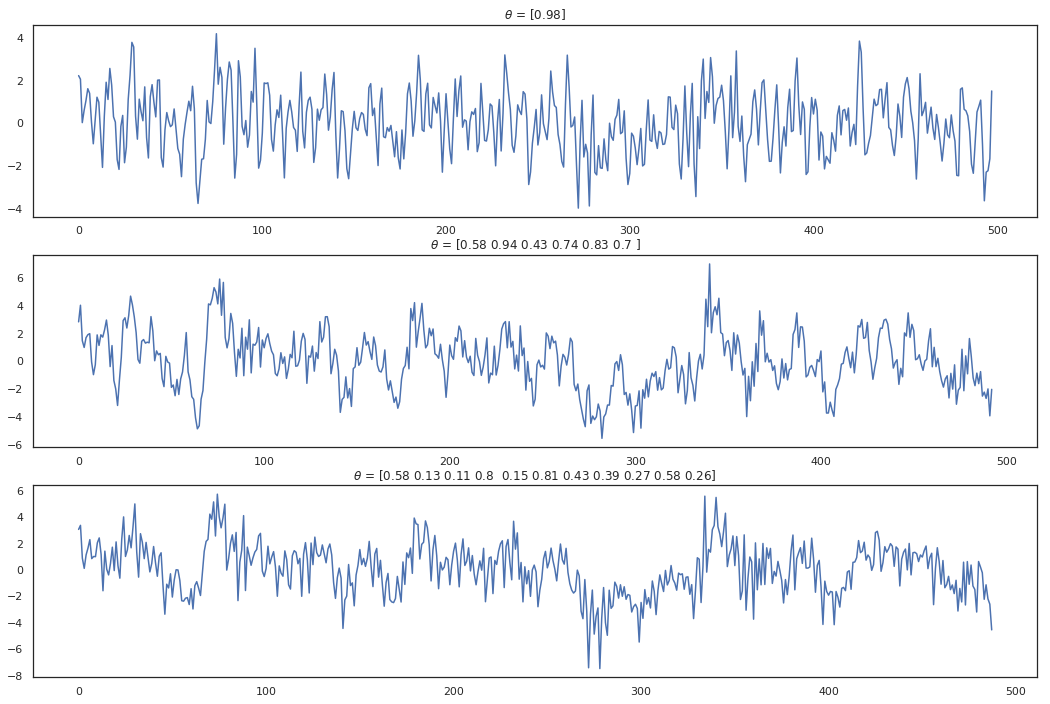
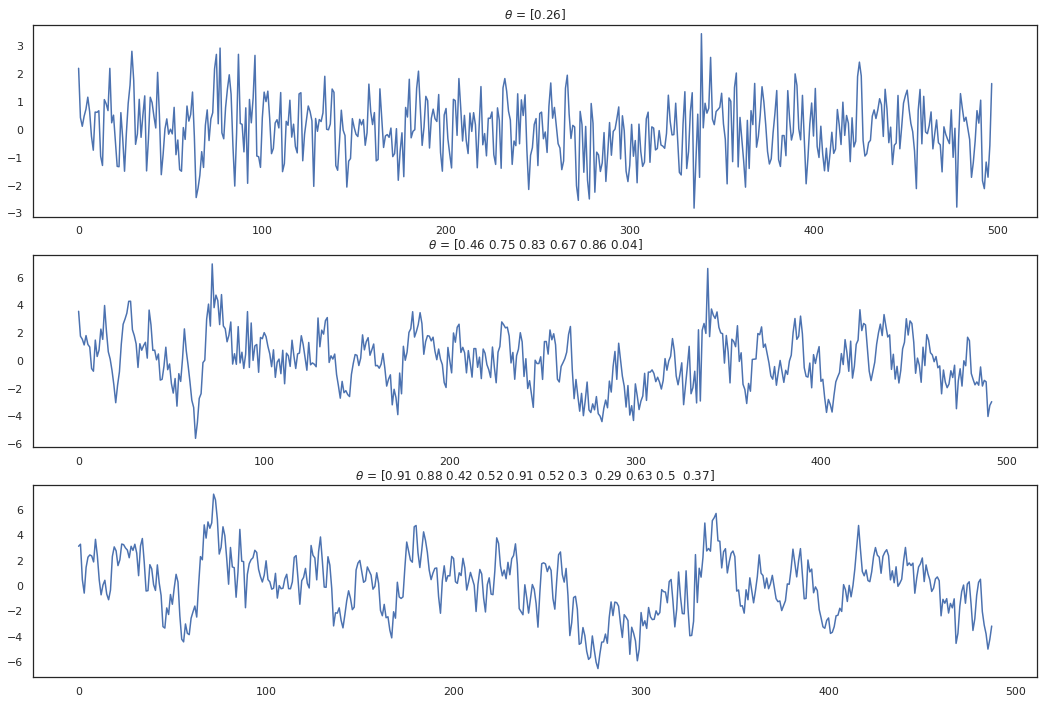
update arima

diff --git a/content/post/arima.md b/content/post/arima.md
@@ -15,7 +15,7 @@ set of variables where we can fit a model on. Are stock markets dependent on pro
 
 A common approach to model time series is to regard the label at current time step $X\_{t}$ as a variable dependent on previous time steps $X\_{t-k}$. We thus analyze the time series on nothing more than the time series. 
 
-One of the most used models when handling time series are ARIMA models. In this post we'll explore how these models are defined and we are going to develop such a model in Python with nothing else but the numpy package.
+One of the most used models when handling time series are ARIMA models. In this post we'll explore how these models are defined and we are going to develop such a model in Python with nothing else but the numpy and the scipy package.
 
 ## Stochastic series
 ARIMA models are actually a combination of two, (or three if you count differencing as a model) processes that are able to generate series data. Those two models are based on an Auto Regressive (AR) process and a Moving Average process. Both AR and MA processes are stochastic processes. Stochastic means that the values come from a random probability distribution, which can be analized statisticly but may not be predicted precisely. In other words, both processes have some
@@ -31,6 +31,7 @@ $$ \epsilon \sim N(0, 1) $$
 import matplotlib.pyplot as plt
 import seaborn as sns
 import numpy as np
+import scipy
 
 n = 500
 fig, ax = plt.subplots(1,2, figsize=(16, 6), gridspec_kw={'width_ratios':[3, 1]})
@@ -88,7 +89,13 @@ Now we are able to easily take a look at different lags back in time, let's simu
 
 ``` python
 def ma_process(eps, theta):
-    theta = np.array([1] + list(theta))[:, None]
+    """
+    Creates an MA(q) process with a zero mean (mean not included in implementation).
+    :param eps: (array) White noise signal.
+    :param theta: (array/ list) Parameters of the process.
+    """
+    # reverse the order of theta as Xt, Xt-1, Xt-k in an array is Xt-k, Xt-1, Xt.
+    theta = np.array([1] + list(theta))[::-1][:, None]
     eps_q, _ = lag_view(eps, len(theta))
     return eps_q @ theta
 
@@ -105,7 +112,7 @@ for i in range(0, 11, 5):
 
 {{< figure src="/img/post-18-arima/ma-signal.png" title="MA processes from different orders." >}}
 
-Note that I've chosen positive values for $\theta$ which isn't required. An MA process can have both positive and negative values for $\theta$. In the plots above can be seen that when the order of $MA(q)$ continues the values are longer correlated with previous values. Actualy, because the process is a weighted average of the $\epsilon$ values until lag $q$, the correlation drops after this lag. Based on this property we can make an educated guess on the which order an $MA(q)$
+Note that I've chosen positive values for $\theta$ which isn't required. An MA process can have both positive and negative values for $\theta$. In the plots above can be seen that when the order of **MA(q)** continues the values are longer correlated with previous values. Actualy, because the process is a weighted average of the $\epsilon$ values until lag $q$, the correlation drops after this lag. Based on this property we can make an educated guess on the which order an **MA(q)**
 process is. This is great, because it is very hard to infer the order by looking at the plots directly. 
 
 ## Autocorrelation
@@ -121,24 +128,24 @@ def pearson_correlation(x, y):
 
 def acf(x, lag=40):
     """
-    Determine auto correlation factors.
+    Determine autocorrelation factors.
     :param x: (array) Time series.
     :param lag: (int) Number of lags.
     """
     return np.array([1] + [pearson_correlation(x[:-i], x[i:]) for i in range(1, lag)])
 
 lag = 40
-# Determine the ACF of an ma(1) and an ma(2) process.
-acf_1 = acf(ma_process(eps, [1]), lag)
-acf_2 = acf(ma_process(eps, [0.2, -0.3, 0.8]), lag)
+# Create an ma(1) and an ma(2) process.
+ma_1 = ma_process(eps, [1])
+ma_2 = ma_process(eps, [0.2, -0.3, 0.8])
 ```
 
-Above we have applied the ACF function on an $MA(1)$ and an $MA(2)$ process with different weights $\theta$. The weights for the models are:
+Above we have created an **MA(1)** and an **MA(2)** process with different weights $\theta$. The weights for the models are:
 
 * MA(1): [1]
 * MA(2): [0.2, -0.3, 0.8]
 
-Below we plot the result of both acf functions. We've also defined a helper function `bartletts_formula` which we use as a null hypothesis to determine if the correlation coefficients we've found are significant and not a statistical fluke. With this function we determine a confidence interval $CI$.
+Below we apply the acf function on both series and then we plot the result of both acf functions. We've also defined a helper function `bartletts_formula` which we use as a null hypothesis to determine if the correlation coefficients we've found are significant and not a statistical fluke. With this function we determine a confidence interval $CI$.
 
 $$CI = \pm z\_{1-\alpha/2} \sqrt{\frac{1+2 \sum\_{1 < i< h-1 }^{h-1}r^2\_i}{N}} $$
 
@@ -149,7 +156,7 @@ def bartletts_formula(acf_array, n):
     """
     Computes the Standard Error of an acf with Bartlet's formula
     Read more at: https://en.wikipedia.org/wiki/Correlogram
-    :param acf_array: (array) Containing auto correlation factors
+    :param acf_array: (array) Containing autocorrelation factors
     :param n: (int) Length of original time series sequence.
     """
     # The first value has autocorrelation with it self. So that values is skipped
@@ -159,29 +166,134 @@ def bartletts_formula(acf_array, n):
     return se
 
 
-# Statistical significance for confidence interval
-alpha = 0.05
-
-plt.figure(figsize=(16, 4 * 2))
-plt.suptitle('Correlogram')
-a = 210
-for array in [acf_1, acf_2]:
-    a += 1
-    plt.subplot(a)
-    plt.vlines(np.arange(lag), 0, array)
-    plt.scatter(np.arange(lag), array, marker='o')
+def plot_acf(x, alpha=0.05, lag=40):
+    """
+    :param x: (array)
+    :param alpha: (flt) Statistical significance for confidence interval.
+    :parm lag: (int)
+    """
+    acf_val = acf(x, lag)
+    plt.figure(figsize=(16, 4))
+    plt.vlines(np.arange(lag), 0, acf_val)
+    plt.scatter(np.arange(lag), acf_val, marker='o')
     plt.xlabel('lag')
-    plt.ylabel('auto correlation')
-
+    plt.ylabel('autocorrelation')
+    
     # Determine confidence interval
-    ci = stats.norm.ppf(1 - alpha / 2.) * bartletts_formula(array, len(eps))
+    ci = stats.norm.ppf(1 - alpha / 2.) * bartletts_formula(acf_val, len(x))
     plt.fill_between(np.arange(1, ci.shape[0] + 1), -ci, ci, alpha=0.25)
+
+for array in [ma_1, ma_2]:
+    plot_acf(array)
 ```
 
 {{< figure src="/img/post-18-arima/acf.png" >}}
 
-As we mentioned earlier, these plots help us infer the order of the $MA(q)$ model. In both plots we can see a clear cut off in significant values. Both plots start with an auto correlation of 1. This is the auto correlation at lag 0. The second value is the auto correlation at lag 1 etc. The first plot the cut off is after 1 lag and in the second plot the cut off is at lag 3. So in our artificial data set we are able to determine the order of different $MA(q)$ models by looking
+As we mentioned earlier, these plots help us infer the order of the **MA(q)** model. In both plots we can see a clear cut off in significant values. Both plots start with an autocorrelation of 1. This is the autocorrelation at lag 0. The second value is the autocorrelation at lag 1 etc. The first plot the cut off is after 1 lag and in the second plot the cut off is at lag 3. So in our artificial data set we are able to determine the order of different **MA(q)** models by looking
 at the ACF plot!
+
+## AR process
+In the section above we have seen and simulated an MA process and described the definition of autocorrelation to infer the order of a purely MA process. Now we are going to simulate another series called the Auto Regressive (RA) process. Again we're going to infer the order of the process visually. This time we will be doing that with a Partial AutoCorrelation Funtion (PACF).
+
+An **AR(p)** process is defined as:
+
+$$X\_t = c + \epsilon\_t \sum\_{i=1}^p{\phi\_i X\_{t-i}} $$
+
+Now $\phi$ are the parameters of the process and $p$ is the order of the process. Where **MA(q)** is a weighted average over the error terms (white noise), **AR(p)** is a weighted average over the previous values of the series $X\_{t-p}$. Note that this process also has a white noise variable, which makes this a stochastic series.
+
+```python
+def ar_process(eps, phi):
+    """
+    Creates a AR process with a zero mean.
+    """
+    # Reverse the order of phi and add a 1 for current eps_t
+    phi = np.r_[1, phi][::-1] 
+    ar = eps.copy()
+    offset = len(phi)
+    for i in range(offset, ar.shape[0]):
+        ar[i - 1] = ar[i - offset: i] @ phi
+    return ar
+
+fig = plt.figure(figsize=(16, 4 * 3))
+a = 310
+for i in range(0, 11, 5):
+    a += 1
+    phi = np.random.normal(0, 0.1, size=i + 1)
+    plt.subplot(a)
+    plt.title(f'$\\phi$ = {phi.round(2)}')
+    plt.plot(ar_process(eps, phi))
+```
+
+{{< figure src="/img/post-18-arima/ra-signal.png" title="AR processes from different orders." >}}
+
+Below we create three new **(AR(p)** processes and plot the ACF of these series. 
+
+``` python
+plot_acf(ar_process(eps, [0.3, -0.3, 0.5]))
+plot_acf(ar_process(eps, [0.5, -0.1, 0.1]))
+plot_acf(ar_process(eps, [0.2, 0.5, 0.1]))
+```
+{{< figure src="/img/post-18-arima/acf-ar.png" title="The ACF computed from 3 different AR series." >}}
+
+By analyzing these plots we can tell that the ACF plot of these **AR** processes don't necessarily cut off after after lag $p$. In the first plot we see that the ACF values tail off to zero, the second plot does has significant cut off at lag $p$ and the third plot has a linearly decreasing autocorrelation until lag 14. For the **AR(p)** process, the ACF clearly isn't decisive for determining the order of the process. Actually, for **AR** processes we can use
+another function for inferring the order of the process.
+
+## Partial autocorrelation
+The partial autocorrelation function shows the autocorrelation of value $X\_t$ and $X\_{t-k}$ after the correlation between $X\_t$ with the intermediate values $X\_{t-1} ... X\_{t-k+1}$ explained. Below we'll go through the steps required to determine partial auto correlation. 
+
+The partial correlation between $X\_t$ and $X\_{t-k}$ can be determined training two linear models.
+
+Let $\hat{X\_t}$ and $\hat{X\_{t-k}}$ be determined by a Linear Model optimized on $X\_{t-1} ... X\_{t-(k-1)} $ parameterized by $\alpha$ and $\beta$. 
+
+$$\hat{X\_t} = \alpha\_1 X\_{t-1} + \alpha\_2 X\_{t-2} ... \alpha\_{k-1} X\_{t-(k-1)}$$ 
+
+$$\hat{X\_{t-k}} = \beta\_1 X\_{t-1} + \beta\_2 X\_{t-2} ... \beta\_{k-1} X\_{t-(k-1)} $$ 
+
+The partial correlation is then defined by the Pearson's coefficient of the residuals of both predicted values $\hat{X\_t}$ and $\hat{X\_{t-k}}$.
+
+$$ PCAF(X\_t, X\_{t-k}) = corr((X\_t - \hat{X\_t}), (X\_{t-k} - \hat{X\_{t-k}})) $$
+
+### Intermezzo: Linear model
+Above we use a linear model to define the PACF. Later in this post we are also going to train an ARIMA model, which is linear. So let's quickly define a linear regression model.
+
+Linear regression is defined by:
+
+$$ y = \beta X + \epsilon $$ 
+
+Where the parameters can be find by ordinary least squares:
+
+$$ \beta = (X^TX)^{-1}X^Ty $$
+
+``` python
+def least_squares(x, y):
+    return np.linalg.inv((x.T @ x)) @ (x.T @ y)
+
+class LinearModel:
+    def __init__(self, fit_intercept=True):
+        self.fit_intercept = fit_intercept
+        self.beta = None
+        self.intercept_ = None
+        self.coef_ = None
+    
+    def _prepare_features(self, x):
+        if self.fit_intercept:
+            x = np.hstack((np.ones((x.shape[0], 1)), x))
+        return x
+    
+    def fit(self, x, y):
+        x = self._prepare_features(x)
+        self.beta = least_squares(x, y)
+        self.intercept_ = self.beta[0]
+        self.coef_ = self.beta[1:]
+        
+    def predict(self, x):
+        x = self._prepare_features(x)
+        return x @ self.beta
+    
+    def fit_predict(self, x, y):
+        self.fit(x, y)
+        return self.predict(x)
+```
 
 <script type="text/x-mathjax-config">
 MathJax.Hub.Config({
